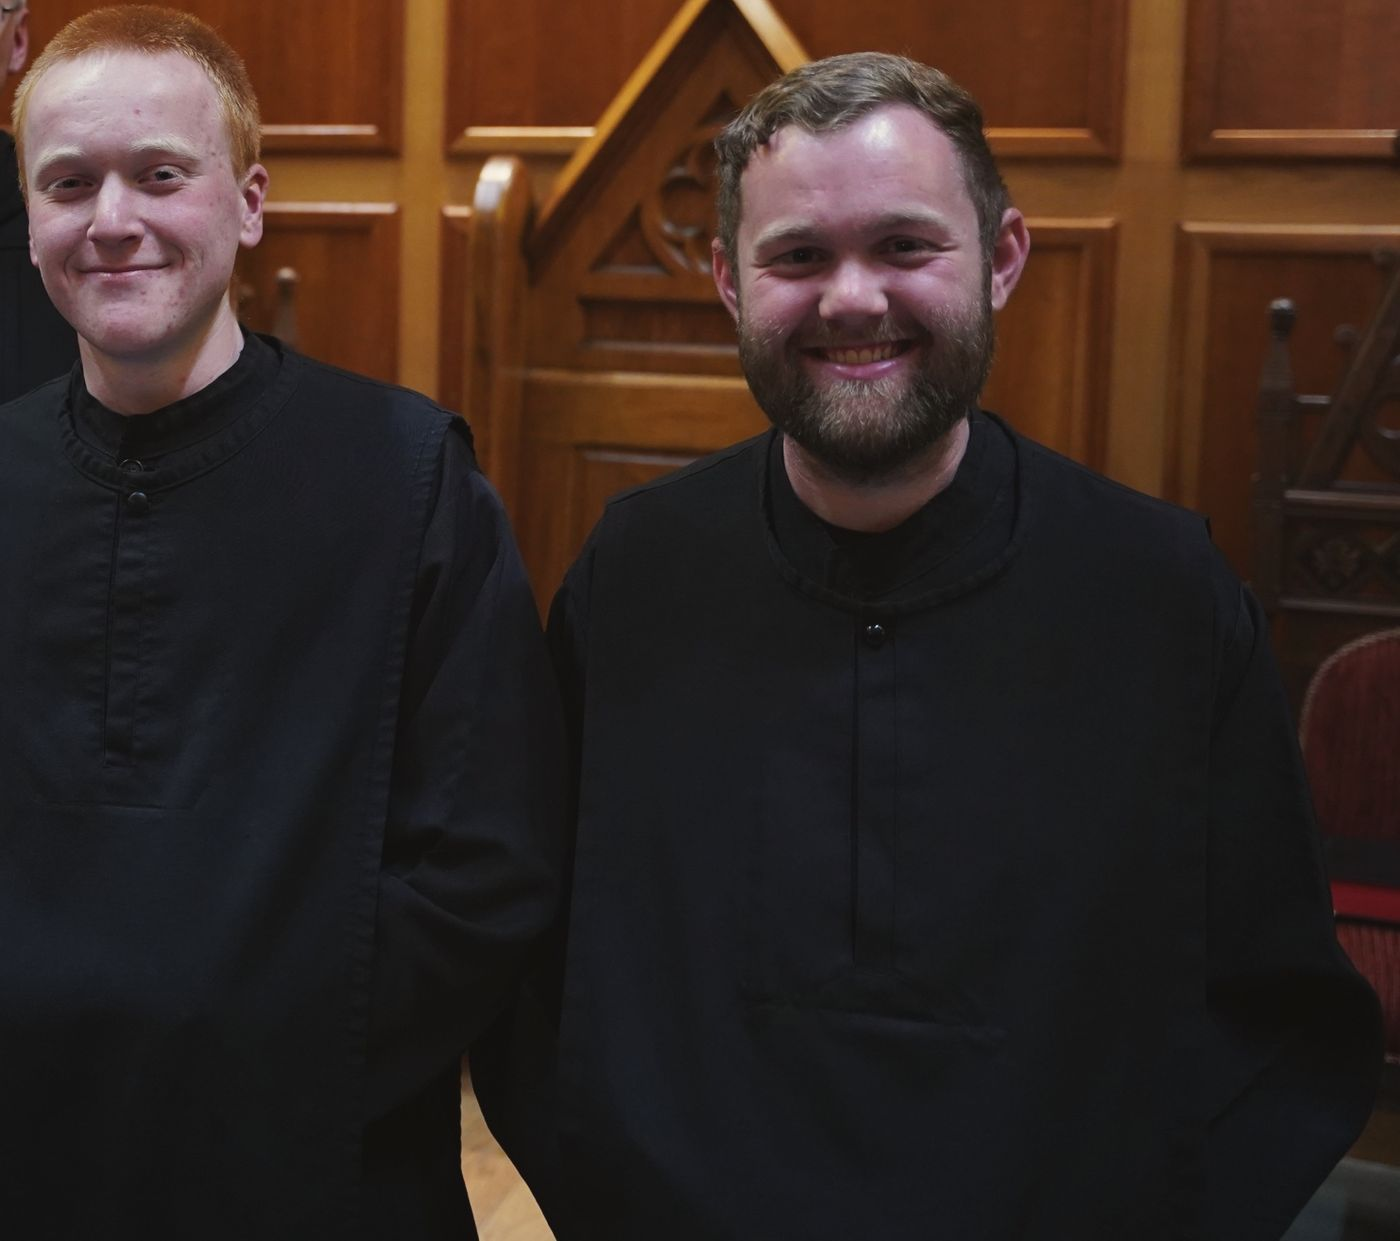
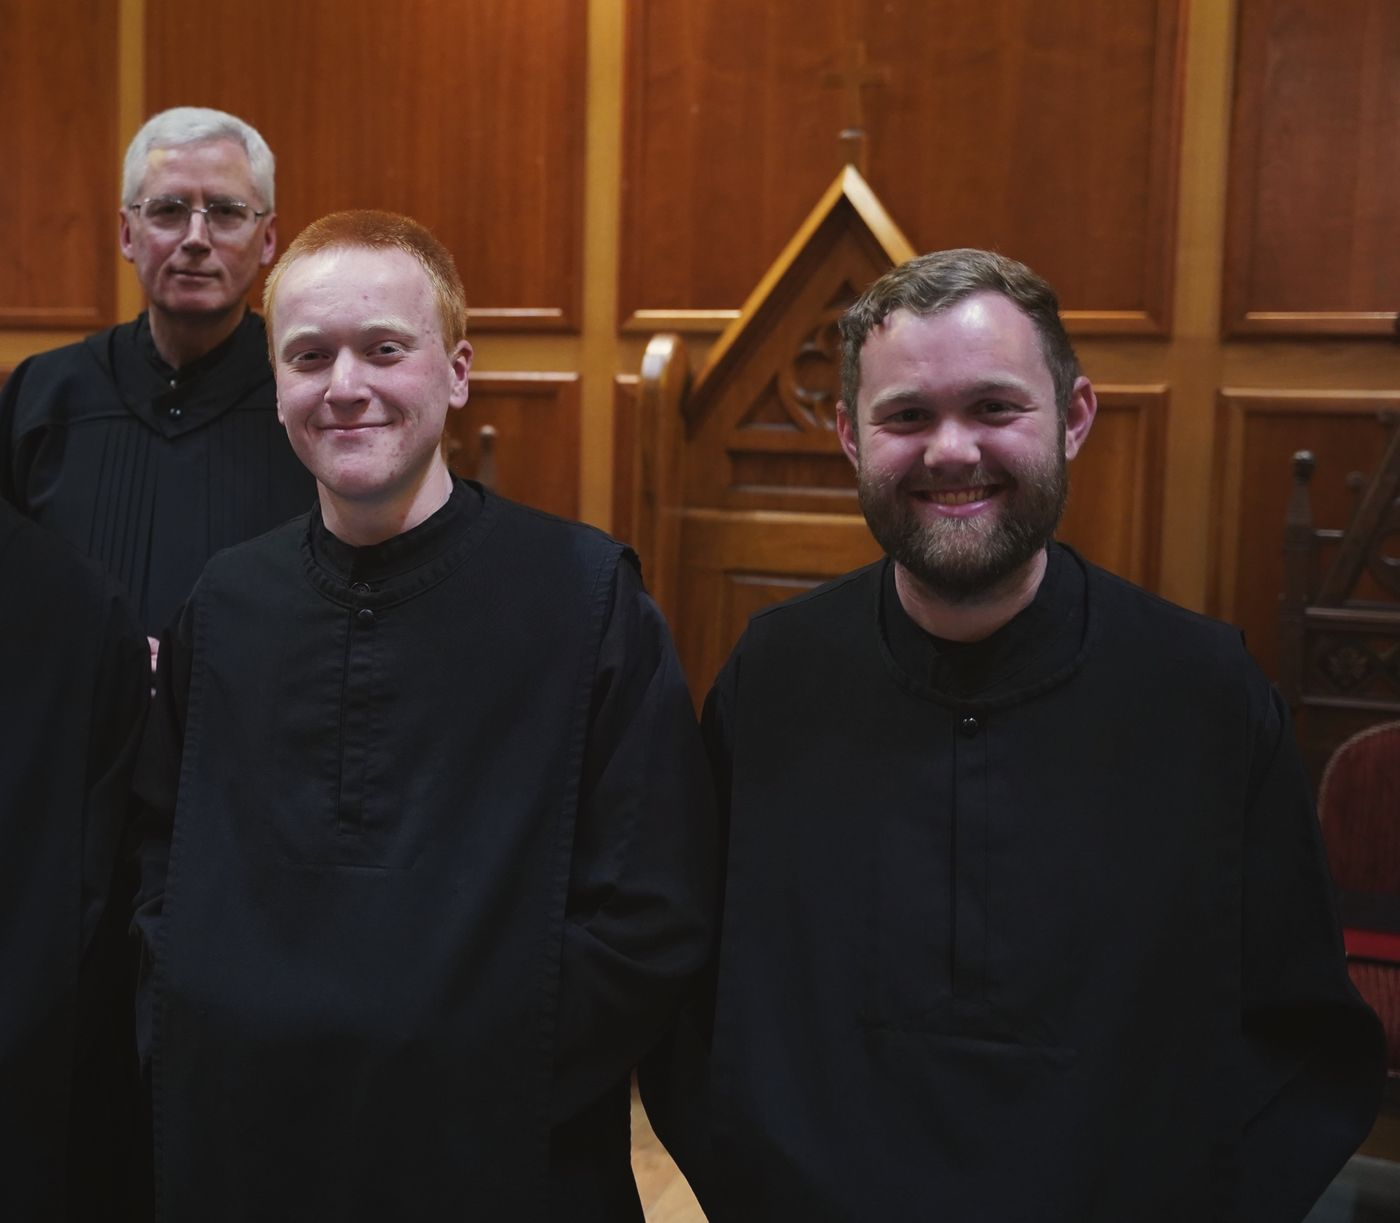
Novices: one card for Br. Nicholas and Br. Boniface, with Abbot Brendan behind them
Claude-Session: https://claude.ai/code/session_01AN8v5ZvWDqQRGMRQkWmcAx

diff --git a/monastery/index.html b/monastery/index.html
@@ -31,7 +31,8 @@
 .monk-role { font: 600 .74rem/1.4 var(--sans); letter-spacing: .12em; text-transform: uppercase; color: var(--gold-ink); margin-top: .4rem; }
 .monk-meta { font-size: .9rem; color: var(--muted); margin-top: .3rem; }
 .monk-body p:last-child { font-size: 1rem; line-height: 1.6; color: var(--ink-soft); margin-top: .6rem; }
-.monks-wide { grid-template-columns: minmax(0, 26rem); }
+.monks-wide { grid-template-columns: minmax(0, 34rem); }
+.monk-group-photo img { aspect-ratio: 8 / 7 !important; }
 @media (max-width: 40rem) { .monk figure img, .monk-nophoto { aspect-ratio: 1; } .monk-nophoto img { aspect-ratio: auto; } }
 </style>
 </head>
@@ -294,27 +295,17 @@
     </ul>
     <h3 class="h-sm monk-group">Novices</h3>
     <p class="small monk-group-note">A year of prayer, work and study in the habit before first vows.</p>
-    <ul class="monks" role="list">
+    <ul class="monks monks-wide" role="list">
       <li class="monk">
-        <figure><img src="../assets/img/monks/nicholas.jpg" alt="Br. Nicholas Smith" width="600" height="750" loading="lazy"><figcaption class="credit">Photo: Anne Stephens</figcaption></figure>
+        <figure class="monk-group-photo"><img src="../assets/img/novices-2026.jpg" alt="Br. Nicholas Smith and Br. Boniface Boland, with Abbot Brendan behind them" width="1400" height="1223" loading="lazy"><figcaption class="credit">Photo: Anne Stephens</figcaption></figure>
         <div class="monk-body">
-          <h4>Br. Nicholas Smith</h4>
-          <p class="monk-role">Novice · artist</p>
-          <p class="monk-meta"><span>Name day: St. Nicholas of Myra, 6 December</span></p>
-          <p>Austin Smith before he received the habit, he took his name to follow Br. Nicholas Weiss (1907–1982), the abbey's woodcarver, and like him he draws: the map of the campus for the Bloomin' Festival is his. The abbey's original campus map was probably drawn by the first Br. Nicholas.</p>
-        </div>
-      </li>
-      <li class="monk">
-        <figure><img src="../assets/img/monks/boniface.jpg" alt="Br. Boniface Boland" width="600" height="750" loading="lazy"><figcaption class="credit">Photo: St. Bernard Abbey</figcaption></figure>
-        <div class="monk-body">
-          <h4>Br. Boniface Boland</h4>
-          <p class="monk-role">Novice</p>
-          <p class="monk-meta"><span>Name day: St. Boniface, 5 June</span></p>
-          <p>Timothy Boland before he received the habit, he entered the novitiate with Br. Nicholas on 21 March 2026.</p>
+          <h4>Br. Nicholas Smith and Br. Boniface Boland</h4>
+          <p class="monk-role">Novices since 21 March 2026</p>
+          <p>Austin Smith and Timothy Boland received the habit together on the feast of the passing of St. Benedict, with Abbot Brendan, then the community's superior, standing behind them here. Br. Nicholas, an artist, took his name to follow Br. Nicholas Weiss (1907–1982), the abbey's woodcarver; he drew the campus map for the Bloomin' Festival, and the abbey's original campus map was probably drawn by the first Br. Nicholas. Br. Boniface is named for the Apostle of Germany. Name days: St. Nicholas of Myra, 6 December; St. Boniface, 5 June.</p>
         </div>
       </li>
     </ul>
-    <p class="credit" style="margin-top:2.5rem">Portraits: Anne Stephens, except Br. Irenaeus and Br. Boniface (St. Bernard Abbey). Words in quotation marks are the monks' own, from the abbey's website and the Cullman papers.</p>
+    <p class="credit" style="margin-top:2.5rem">Portraits: Anne Stephens, except Br. Irenaeus (St. Bernard Abbey). Words in quotation marks are the monks' own, from the abbey's website and the Cullman papers.</p>
   </div>
 </section>
 <section class="sec on-stone" id="day" aria-labelledby="day-h">
@@ -398,12 +389,12 @@
     <div class="split" style="margin-top:3rem">
       <figure>
         <img src="../assets/img/formation-scapular.jpg" alt="A folded habit and scapular laid out on a table, labelled for Postulant Timothy" loading="lazy" width="900" height="1350" style="aspect-ratio:9/8">
-        <figcaption>Laid out for the clothing, 21 March 2026: the habit for Postulant Timothy, who that day became Br. Boniface. Photo: Anne Stephens.</figcaption>
+        <figcaption>Laid out for the clothing, 21 March 2026: the habit for Postulant Timothy, who that day became Br. Boniface. Photos in this section: Anne Stephens.</figcaption>
       </figure>
-      <figure>
-        <img src="../assets/img/novices-2026.jpg" alt="Two smiling novices in their new habits" loading="lazy" width="1400" height="1241" style="aspect-ratio:9/8">
-        <figcaption>Br. Boniface and Br. Nicholas, newly clothed as novices. Photos on this page: Anne Stephens.</figcaption>
-      </figure>
+      <div class="prose">
+        <p>On the feast of the passing of St. Benedict each spring, the community gathers as postulants receive the habit and novices make their first vows. Our two novices this year, Br. Nicholas and Br. Boniface, are on the page above with the other monks.</p>
+        <a class="more" href="#monks">Meet the monks <svg class="ic"><use href="#i-arrow"/></svg></a>
+      </div>
     </div>
     <div class="btn-row"><a class="btn btn-ink" href="https://www.stbernardabbey.com/vocation-inquiry">Write to the vocation director</a></div>
   </div>

diff --git a/PLAN.md b/PLAN.md
@@ -155,3 +155,4 @@ end of it under a comment with your page's name, or in a `<style>` block in your
 - 2 Nov 2026: the whole Facebook Page read through the Graph API (1,022 posts, 1,146 photos): notes in `_notes/FACEBOOK.md`, texts in `_notes/facebook/`, tool `_notes/tools/fb_page_export.py` (token in the env var FB_PAGE_TOKEN; photos not in the repo). Monk cards corrected from it: name days as the abbey keeps them (Charles Lwanga, John Bosco, Thomas Aquinas, Joel 13 Jul, Pachomius 15 May, Benedict 21 Mar), Fr. Dominic prior (Aug 2026), Br. Christopher guestmaster, more on Brs. Leo, Michael, Irenaeus and Fr. Bede; Br. Irenaeus's photo; Br. Raphael and Br. Damien now separate cards; Br. Nicholas's 'Austin' was his baptismal name. Visit: Ed Huddleston's star-trail photo of the cemetery cross. Br. Augustine to settle the disagreements listed in FACEBOOK.md (his own birthplace, Fr. Patrick's and Br. Thomas's hometowns).
 - 2 Nov 2026 (Br. Augustine): Fr. Bede is now Prior and Fr. Dominic Subprior (they switched); Br. Augustine was born in Pittsburgh; Fr. Patrick from Sheffield (ordained 2008); Abbot Brendan from Lanesville. Novices identified (Nicholas: auburn hair and beard; Boniface: red hair) and given photos: every monk on the site now has a picture.
 - 2 Nov 2026: Br. Augustine sent Anne Stephens's March 2026 photos: new choir photos (home, pray) and a Vocations section with a picture for each stage (the belts and habits, the tonsure, the capuche at first vows; solemn vows: photo of the cuculla to come from Br. Augustine). Br. Gabriel cropped out of the novices' photo. To check: the number of pleats in the cuculla (Br. Augustine said 72, one per chapter of the Rule; the Rule has 73 chapters), not yet on the page.
+- 2 Nov 2026: the two novices now share one card, with Anne Stephens's photo of them and Abbot Brendan behind (Br. Gabriel cropped out), as Br. Augustine asked.

diff --git a/assets/img/README.md b/assets/img/README.md
@@ -22,6 +22,4 @@ Carol M. Highsmith, public domain: credit "Photo: Carol M. Highsmith, Library of
 | cemetery-stars.jpg | Facebook, 2025-09-11, Ed Huddleston (credited on the Page). Credit "Photo: Ed Huddleston" | visit |
 | monks/irenaeus.jpg | Facebook, 2025-06-28 name-day post (abbey photo) | monastery |
 | monks/raphael.jpg, monks/damien.jpg | Stephens first-vows DSC09609, split (identified from the abbey's Facebook posts) | monastery |
-| monks/boniface.jpg | Facebook 2026-03-23 clothing-day family photos, cropped to the novice alone (identified by Br. Augustine), 480x600 | monastery |
-| choir-reading, formation-belts, formation-tonsure, formation-capuche, formation-scapular, novices-2026 | Anne Stephens, novitiate and first vows 20–21 March 2026 (sent by Br. Augustine; tonsure = SmugMug DSC08510, capuche = DSC09196), graded at 0.6; novices-2026 cropped to leave out Br. Gabriel | pray, monastery (#vocations) |
-| monks/nicholas.jpg | from novices-2026's source photo (Anne Stephens) | monastery |
+| choir-reading, formation-belts, formation-tonsure, formation-capuche, formation-scapular, novices-2026 | Anne Stephens, novitiate and first vows 20–21 March 2026 (sent by Br. Augustine; tonsure = SmugMug DSC08510, capuche = DSC09196), graded at 0.6; novices-2026 (the novices' card: Br. Boniface and Br. Nicholas with Abbot Brendan behind) cropped to leave out Br. Gabriel | pray, monastery (#vocations) |
